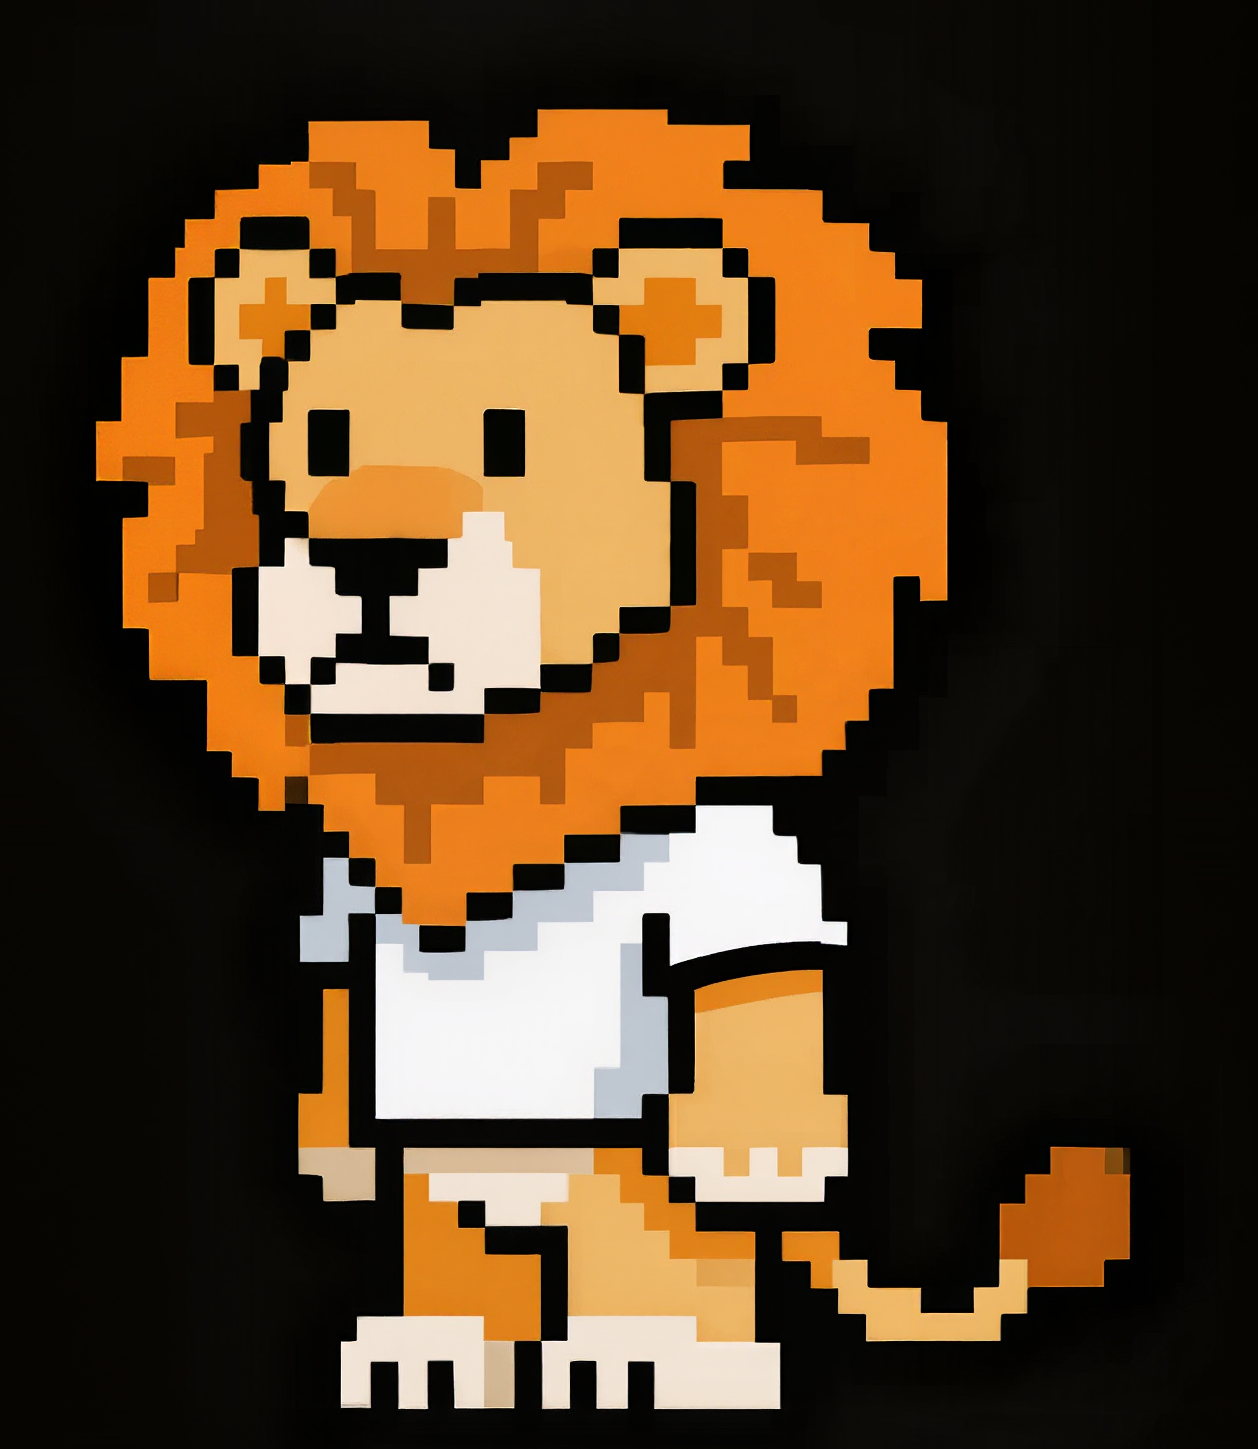
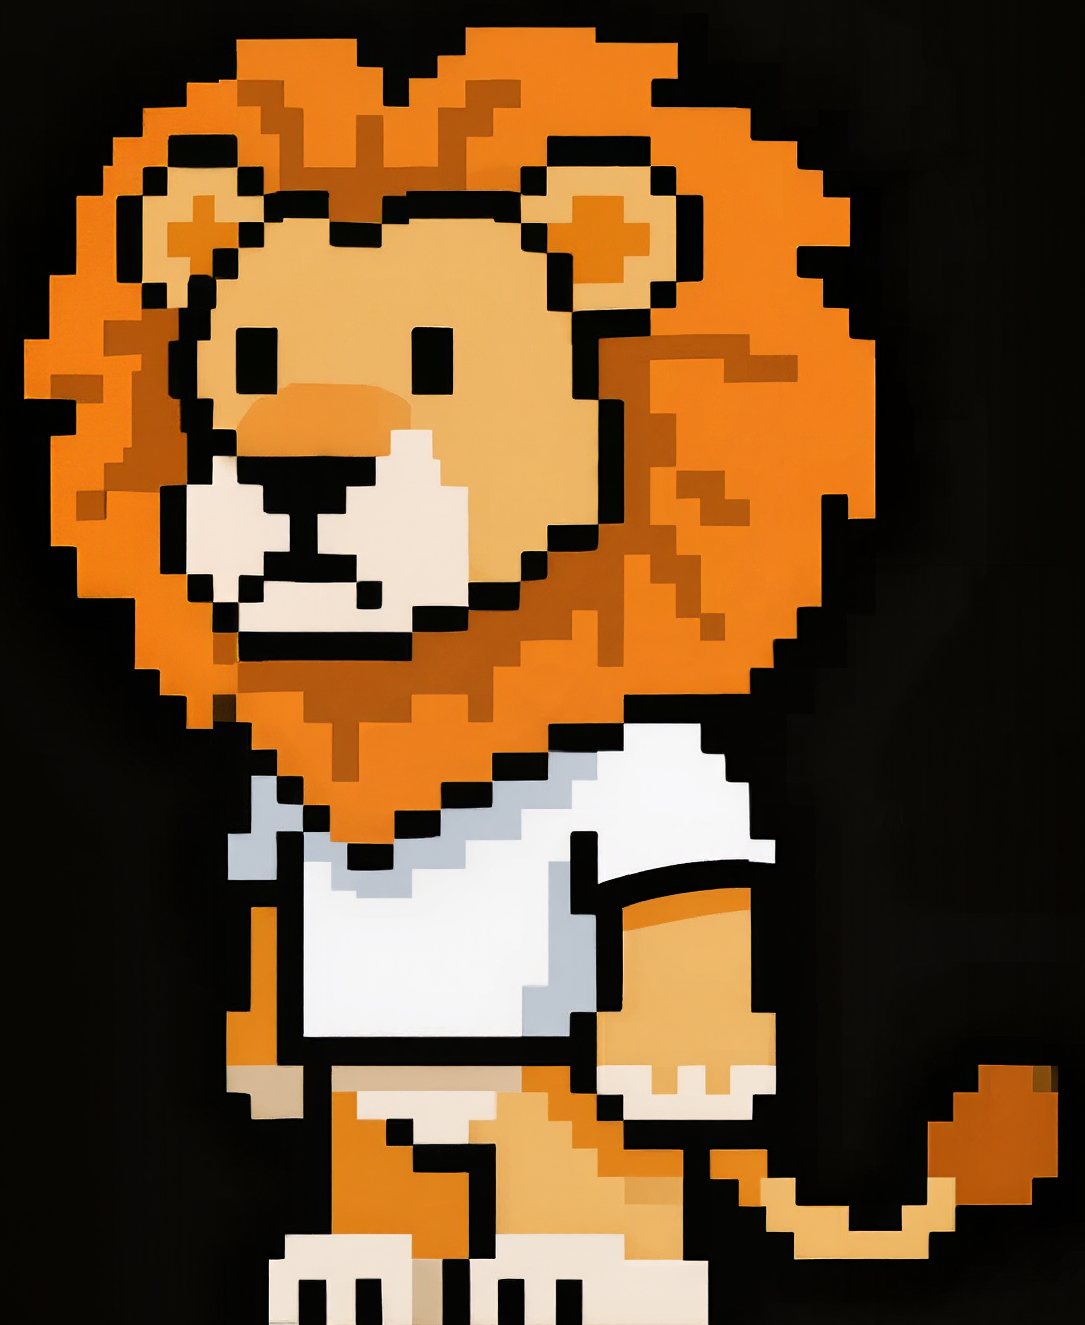
created a curtain drop

diff --git a/src/App.tsx b/src/App.tsx
@@ -6,6 +6,7 @@ import { Lion } from '@/components/Lion'
 import { SpeechBubble } from '@/components/SpeechBubble'
 import { useAudioMurmur } from '@/hooks/use-audio-murmur'
 import dialoguesText from '@/assets/documents/lion-dialogues.txt?raw'
+import curtainImage from '@/assets/images/pixelated_curtain.png'
 
 interface Dialogue {
     speaker: 'left' | 'right'
@@ -24,7 +25,7 @@ const parseDialogues = (text: string): Dialogue[] => {
 }
 
 function App() {
-    const [animationState, setAnimationState] = useState<'idle' | 'playing' | 'complete'>('idle')
+    const [animationState, setAnimationState] = useState<'idle' | 'curtain-opening' | 'playing' | 'complete'>('idle')
     const [currentDialogue, setCurrentDialogue] = useState(0)
     const [showCurtain, setShowCurtain] = useState(true)
     const [dialogues, setDialogues] = useState<Dialogue[]>([])
@@ -37,21 +38,30 @@ function App() {
 
     const startAnimation = () => {
         initAudio()
-        setAnimationState('playing')
+        setAnimationState('curtain-opening')
         setCurrentDialogue(0)
         setShowCurtain(true)
 
+        // Curtain opens over 2 seconds
         setTimeout(() => {
             setShowCurtain(false)
-        }, 1000)
+            // Start dialogue after curtain is fully open
+            setTimeout(() => {
+                setAnimationState('playing')
+            }, 500)
+        }, 2000)
     }
 
     const handleDialogueComplete = () => {
         if (currentDialogue < dialogues.length - 1) {
             setCurrentDialogue((prev) => prev + 1)
         } else {
+            // Drop curtain after final dialogue
             setTimeout(() => {
-                setAnimationState('complete')
+                setShowCurtain(true)
+                setTimeout(() => {
+                    setAnimationState('complete')
+                }, 2000)
             }, 1000)
         }
     }
@@ -66,20 +76,19 @@ function App() {
         <div className="min-h-screen bg-background flex flex-col items-center justify-center p-8">
             <div className="relative w-full max-w-4xl aspect-video bg-gradient-to-b from-muted to-background border-4 border-primary rounded-lg overflow-hidden shadow-2xl">
                 <AnimatePresence>
-                    {showCurtain && (
+                    {showCurtain && animationState !== 'idle' && (
                         <motion.div
-                            initial={{ scaleY: 1 }}
-                            animate={{ scaleY: animationState === 'idle' ? 1 : 0 }}
-                            exit={{ scaleY: 0 }}
-                            transition={{ duration: 1, ease: 'easeInOut' }}
-                            className="absolute inset-0 bg-primary origin-top z-50 flex items-center justify-center"
+                            initial={{ y: animationState === 'curtain-opening' ? 0 : '-100%' }}
+                            animate={{ y: animationState === 'complete' ? 0 : '-100%' }}
+                            exit={{ y: '-100%' }}
+                            transition={{ duration: 2, ease: 'easeInOut' }}
+                            className="absolute inset-0 z-50 overflow-hidden"
                         >
-                            <div className="text-center">
-                                <h1 className="text-4xl font-bold text-primary-foreground mb-4 font-mono">
-                                    THE STAGE
-                                </h1>
-                                <div className="w-24 h-1 bg-accent mx-auto" />
-                            </div>
+                            <img
+                                src={curtainImage}
+                                alt="Stage Curtain"
+                                className="pixel-art w-full h-full object-cover"
+                            />
                         </motion.div>
                     )}
                 </AnimatePresence>
@@ -102,23 +111,6 @@ function App() {
                                 />
                             )}
                         </AnimatePresence>
-
-                        {animationState === 'complete' && (
-                            <motion.div
-                                initial={{ opacity: 0, y: 20 }}
-                                animate={{ opacity: 1, y: 0 }}
-                                className="absolute inset-0 flex items-center justify-center"
-                            >
-                                <div className="text-center">
-                                    <h2 className="text-3xl font-bold text-accent mb-4 font-mono">
-                                        THE END
-                                    </h2>
-                                    <p className="text-foreground/80 text-sm">
-                                        A pixelated performance
-                                    </p>
-                                </div>
-                            </motion.div>
-                        )}
                     </>
                 )}
 

diff --git a/src/components/Lion.tsx b/src/components/Lion.tsx
@@ -14,9 +14,10 @@ export function Lion({ side, position }: LionProps) {
             transition={{ duration: 2, ease: 'easeInOut' }}
             style={{
                 position: 'absolute',
-                bottom: '120px',
+                bottom: '80px',
                 left: side === 'left' ? '20%' : 'auto',
                 right: side === 'right' ? '20%' : 'auto',
+                zIndex: 5,
             }}
             className="relative"
         >
